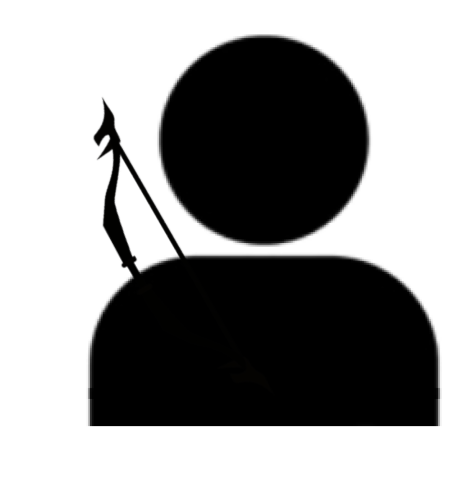
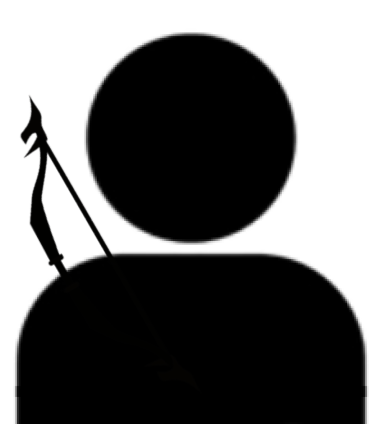
death

Changed region(s): [[0.0296, 0.0613, 1.0, 1.0]]

diff --git a/src/components/game/Card.jsx b/src/components/game/Card.jsx
@@ -1,45 +1,91 @@
-import { useState } from "react";
+import { useEffect, useState } from "react";
+import { useNavigate } from "react-router-dom";
 
 
-function Card({ user, setPillars }) {
+function Card({ user, setPillars, setUser }) {
 
     let domain = JSON.parse(localStorage.getItem("domain"));
     let discarded = JSON.parse(localStorage.getItem("discarded"));
+    let last = JSON.parse(localStorage.getItem("last"));
+    const [settled, setSettled] = useState(false)
+    const [lostBool, setLostBool] = useState(false)
+    const navigate = useNavigate()
+
+    let lostText = [
+        "The people lost all the trust in you and decided to lynch you off and hang you publically.",
+        "Due to lack of any practise your skillset got extremly poor and made you a weak target of other Wanderers, who decided to elimate you to reduce their competition.",
+        "All the battles and attacks made you extremly weak, you ended up passing away due to extremly poor health.",
+        "The crown got impatient with your works, he started considering you as more of a burden and decided to get your executed by his assassins."
+    ]
+
+    let lost = {
+        "index": -1,
+        "cid": -1,
+        "text": "",
+        "choices": ["Return", "Return"],
+        "Return": {
+            "coins": 0,
+            "pillars": [0, 0, 0, 0],
+            "items": [0, 0, 0, 0],
+            "swap": "None",
+            "next": [],
+            "discarded": []
+        },
+        "Return": {
+            "coins": 0,
+            "pillars": [0, 0, 0, 0],
+            "items": [0, 0, 0, 0],
+            "swap": "None",
+            "next": [],
+            "discarded": []
+        }
+    }
 
 
     const [card, setCard] = useState({
         "index": 0,
         "cid": 0,
         "text": "Greetings, traveler! Welcome to our fair city of Aeros. As a token of our hospitality, here's a small gift to aid you on your journey. Will you accept it?",
-        "choices": ["yes", "no"],
-        "yes": {
+        "choices": ["Yes", "No"],
+        "Yes": {
             "coins": 20,
             "pillars": [0, 0, 0, 0.1],
             "items": [0, 0, 0, 0],
             "swap": "None",
             "next": [1],
-            "discard": []
+            "discarded": []
         },
-        "no": {
+        "No": {
             "coins": 0,
             "pillars": [0, 0, 0, -0.1],
             "items": [0, 0, 0, 0],
             "swap": "None",
             "next": [2],
-            "discard": []
+            "discarded": []
         }
     }
     )
+    if (last != -1 && !settled) {
+        let i = last
+        import(`./../../files/data/${user.current}/cards.json`).then(
+            (d) => {
+                setCard(d.default[i])
+            }
+        )
+    }
 
 
 
     const [data, setData] = useState({})
-    import(`./../../files/data/${user.current}/characters.json`).then(
-        (d) => {
+    if (!lostBool) {
 
-            setData(d.default[card.cid])
-        }
-    )
+        import(`./../../files/data/${user.current}/characters.json`).then(
+            (d) => {
+
+                setData(d.default[card.cid])
+            }
+        )
+    }
 
     // 6 7 8
     let conv = {
@@ -62,8 +108,47 @@ function Card({ user, setPillars }) {
             <div className="flex h-1/6 justify-around w-full  bg-[--primary-light] border-[--primary-dark] border-2">
                 <button onClick={() => {
                     let choiceData = card[card.choices[0]];
-                    for (let i = 0; i < choiceData.discarded; i++) {
+                    if (lostBool) {
+                        navigate("/")
+                        return;
+                    }
+                    let z = false
+                    setPillars((p) => {
+                        let pNew = []
+                        let l = -1
+                        for (let i = 0; i < p.length; i++) {
+                            let temp = p[i] + choiceData.pillars[i];
+                            if (temp > 1) {
+                                pNew.push(1)
+                            } else if (temp < 0) {
+                                l = i;
+                                pNew.push(0)
+                            } else {
+                                pNew.push(temp)
+                            }
+                        }
+                        if (l != -1) {
+                            lost.text = lostText[l]
+                            setCard(lost)
+                            z = true
+                            let d = {
+                                name: "You lost",
+                                image: "/characters/General/" + (l == 0 ? "Death1" : (l == 2 ? "Male" : "Death2")) + ".png"
+                            }
+                            setData(d)
+                            setLostBool(true)
+                        }
+                        localStorage.setItem("pillars", JSON.stringify(pNew))
+                        return pNew
+                    })
+                    if (z) {
+                        return;
+                    }
+                    setSettled(true)
+
+                    for (let i = 0; i < choiceData.discarded.length; i++) {
                         const index = domain[user.current].indexOf(choiceData.discarded[i]);
+                        console.log(index)
                         if (index > -1) {
                             domain[user.current].splice(index, 1);
                             if (!discarded[user.current].includes(choiceData.discarded[i])) {
@@ -74,12 +159,14 @@ function Card({ user, setPillars }) {
 
                     localStorage.setItem("domain", JSON.stringify(domain))
                     localStorage.setItem("discarded", JSON.stringify(discarded))
+
                     if (choiceData.next.length == 0) {
                         let i = domain[user.current][Math.floor((Math.random() * domain[user.current].length))]
                         import(`./../../files/data/${user.current}/cards.json`).then(
                             (d) => {
                                 setCard(d.default[i])
-                                console.log(i, d.default[i])
+                                localStorage.setItem("last", JSON.stringify(i))
+
                             }
                         )
                     } else {
@@ -87,28 +174,55 @@ function Card({ user, setPillars }) {
                         import(`./../../files/data/${user.current}/cards.json`).then(
                             (d) => {
                                 setCard(d.default[i])
+                                localStorage.setItem("last", JSON.stringify(i))
                             }
                         )
                     }
-                    localStorage.setItem("coins", JSON.stringify(user.coins + choiceData.coins))
-                    setPillars((p) => {
-                        let pNew = []
-                        for (let i = 0; i < p.length; i++) {
-                            let temp = p[i] + choiceData.pillars[i];
-                            if (temp > 1) {
-                                pNew.push(1)
-                            } else if (temp < 0) {
-                                pNew.push(0)
-                            } else {
-                                pNew.push(temp)
-                            }
-                        }
-                        localStorage.setItem("pillars", JSON.stringify(pNew))
-                        return pNew
-                    })
+                    user.coins += choiceData.coins
+                    user.cards += 1
+                    localStorage.setItem("user", JSON.stringify(user))
+                    setUser(user)
+
                 }} className="w-1/2 text-xl">{card.choices[0]}</button>
                 <button onClick={() => {
                     let choiceData = card[card.choices[1]];
+                    if (lostBool) {
+                        navigate("/")
+                        return;
+                    }
+                    let z = false
+                    setPillars((p) => {
+                        let pNew = []
+                        let l = -1
+                        for (let i = 0; i < p.length; i++) {
+                            let temp = p[i] + choiceData.pillars[i];
+                            if (temp > 1) {
+                                pNew.push(1)
+                            } else if (temp < 0) {
+                                l = i;
+                                pNew.push(0)
+                            } else {
+                                pNew.push(temp)
+                            }
+                        }
+                        if (l != -1) {
+                            lost.text = lostText[l]
+                            setCard(lost)
+                            z = true
+                            let d = {
+                                name: "You lost",
+                                image: "/characters/General/" + (l == 0 ? "Death1" : (l == 2 ? "Male" : "Death2")) + ".png"
+                            }
+                            setData(d)
+                            setLostBool(true)
+                        }
+                        localStorage.setItem("pillars", JSON.stringify(pNew))
+                        return pNew
+                    })
+                    if (z) {
+                        return;
+                    }
+                    setSettled(true)
                     for (let i = 0; i < choiceData.discarded; i++) {
                         const index = domain[user.current].indexOf(choiceData.discarded[i]);
                         if (index > -1) {
@@ -126,7 +240,8 @@ function Card({ user, setPillars }) {
                         import(`./../../files/data/${user.current}/cards.json`).then(
                             (d) => {
                                 setCard(d.default[i])
-                                console.log(i, d.default[i])
+                                localStorage.setItem("last", JSON.stringify(i))
+
                             }
                         )
                     } else {
@@ -134,26 +249,14 @@ function Card({ user, setPillars }) {
                         import(`./../../files/data/${user.current}/cards.json`).then(
                             (d) => {
                                 setCard(d.default[i])
+                                localStorage.setItem("last", JSON.stringify(i))
                             }
                         )
                     }
-                    localStorage.setItem("coins", JSON.stringify(user.coins + choiceData.coins))
-                    setPillars((p) => {
-                        let pNew = []
-                        for (let i = 0; i < p.length; i++) {
-                            let temp = p[i] + choiceData.pillars[i];
-                            if (temp > 1) {
-                                pNew.push(1)
-                            } else if (temp < 0) {
-                                pNew.push(0)
-                            } else {
-                                pNew.push(temp)
-                            }
-                        }
-                        localStorage.setItem("pillars", JSON.stringify(pNew))
-                        return pNew
-                    })
-
+                    user.coins += choiceData.coins
+                    user.cards += 1
+                    localStorage.setItem("user", JSON.stringify(user))
+                    setUser(user)
                 }} className="w-1/2 text-xl">{card.choices[1]}</button>
             </div>
         </div>

diff --git a/src/components/Header/Header.jsx b/src/components/Header/Header.jsx
@@ -1,21 +1,24 @@
 import { useLocation, useNavigate } from "react-router-dom"
 import logo from "/logo.png"
 
-function Header() {
+function Header({ user }) {
     const navigate = useNavigate()
     const loc = useLocation();
     return <div className="bg-[--primary-dark] fixed top-0 left-0  h-16 z-50 pt-20 px:4 sm:px-12 flex justify-between items-end" style={{ width: "100vw" }}>
-        <div className="flex items-center justify-between w-full">
-            <div className="flex items-center sm:items-end text-xl sm:text-3xl text-[--secondary-light] gap-2" onClick={() => { navigate("/") }}>
+        <div className="flex items-center justify-between w-full text-[--secondary-light]">
+            <div className="flex items-center sm:items-end pl-8 text-xl sm:text-3xl text-[--secondary-light] gap-2" onClick={() => { navigate("/") }}>
                 <img src={logo} width={60} />
                 <div>The Wanderer</div>
             </div>
-            <div className="flex justify-end gap-10 items-end  h-full">
-                {loc.pathname == "/game" ?
-                    <button className="text-xl" onClick={() => { navigate("/market") }}>Marketplace</button>
-                    :
-                    <button className="text-xl" onClick={() => { navigate("/game") }}>Return to Game</button>
-                }
+            <div className="flex justify-center items-center pr-10">
+                <div className="flex justify-end gap-10 items-end  h-full">
+                    {loc.pathname == "/game" ?
+                        <button className="text-xl text-[--secondary-light]" onClick={() => { navigate("/market") }}>Marketplace</button>
+                        :
+                        <button className="text-xl text-[--secondary-light]" onClick={() => { navigate("/game") }}>Return to Game</button>
+                    }
+                </div>
+                <div className="text-xl">Coins : {user.coins}</div>
             </div>
 
         </div >

diff --git a/src/game.jsx b/src/game.jsx
@@ -9,9 +9,9 @@ function Game() {
     const [user, setUser] = useState(JSON.parse(localStorage.getItem("user")) || {})
     const [pillars, setPillars] = useState(JSON.parse(localStorage.getItem("pillars")) || [0, 0, 0, 0])
     return <div className="h-full scroll overflow-hidden">
-        <Header />
+        <Header user={user} />
         <div className="flex bg-[--primary-light] rounded-3xl m-10 mt-24  mx-16 h-5/6">
-            <Card user={user} setPillars={setPillars} />
+            <Card user={user} setPillars={setPillars} setUser={setUser} />
             <div className="h-full w-3/5">
                 <Pillars pillars={pillars} />
                 <div className="w-full h-full flex">

diff --git a/src/home.jsx b/src/home.jsx
@@ -35,6 +35,7 @@ function Home() {
                 "Red Woods": [],
                 "The Ridge": [],
             }))
+            localStorage.setItem("last", JSON.stringify(-1))
 
             localStorage.setItem("discarded", JSON.stringify({
                 "Storm's Gate": [],
